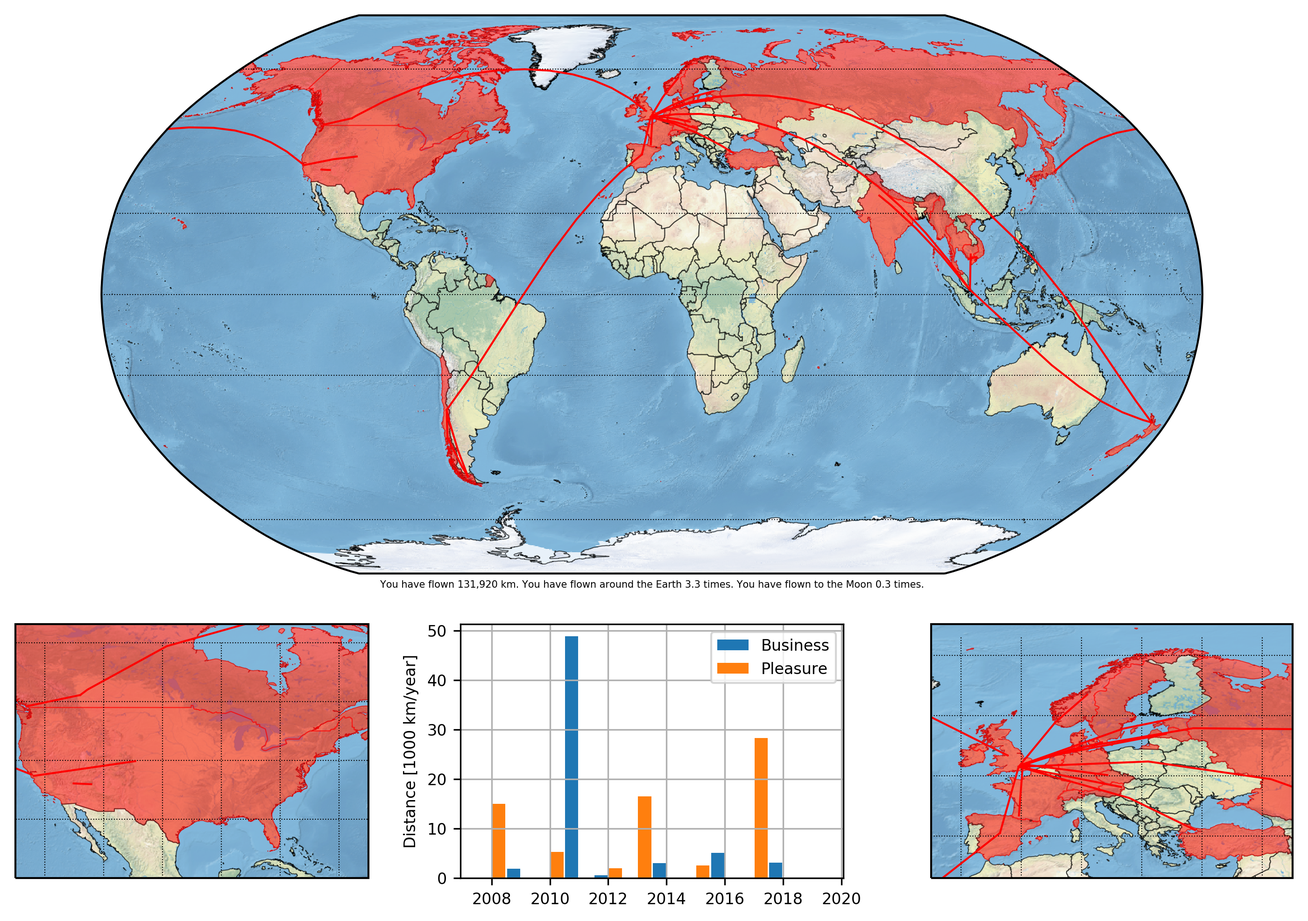
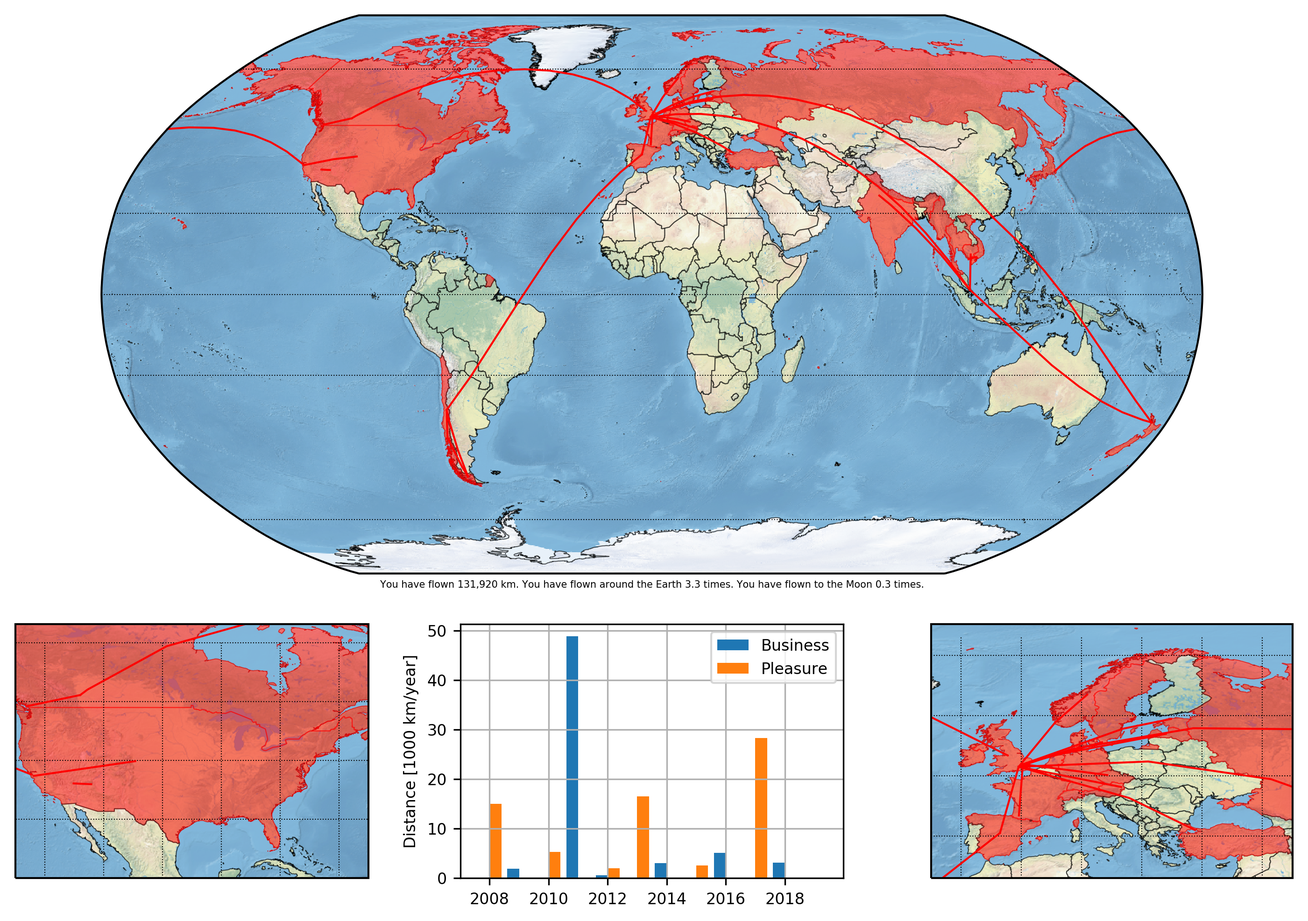
made bar half-width defined so that it can be used consistantly

diff --git a/run.py b/run.py
@@ -36,6 +36,9 @@ def run(flightLog = "/this/path/does/not/exist", extraCountries = [], renames = 
          73.0  # top
     ]
 
+    # Set the half-width of the bars on the histogram ...
+    hw = 0.2
+
     # Create plot and make it pretty ...
     fig = matplotlib.pyplot.figure(
         figsize = (12, 8),
@@ -197,9 +200,9 @@ def run(flightLog = "/this/path/does/not/exist", extraCountries = [], renames = 
                 # NOTE: This is a bit of a hack, I should really use NumPy but I
                 #       do not want to bring in another dependency that people
                 #       may not have.
-                businessX.append(year - 0.25)
+                businessX.append(year - hw)
                 businessY.append(0.0)                                           # [1000 km]
-                pleasureX.append(year + 0.25)
+                pleasureX.append(year + hw)
                 pleasureY.append(0.0)                                           # [1000 km]
 
         # Find coordinates for this flight ...
@@ -215,9 +218,9 @@ def run(flightLog = "/this/path/does/not/exist", extraCountries = [], renames = 
 
         # Add it's distance to the histogram ...
         if row[3].lower() == "business":
-            businessY[businessX.index(int(row[2][0:4]) - 0.25)] += 0.001 * dist # [1000 km]
+            businessY[businessX.index(int(row[2][0:4]) - hw)] += 0.001 * dist   # [1000 km]
         elif row[3].lower() == "pleasure":
-            pleasureY[pleasureX.index(int(row[2][0:4]) + 0.25)] += 0.001 * dist # [1000 km]
+            pleasureY[pleasureX.index(int(row[2][0:4]) + hw)] += 0.001 * dist   # [1000 km]
 
         # Create flight name and skip this flight if it has already been drawn ...
         if iata1 < iata2:
@@ -260,8 +263,8 @@ def run(flightLog = "/this/path/does/not/exist", extraCountries = [], renames = 
             extraCountries.append(country2)
 
     # Plot histograms ...
-    axm.bar(businessX, businessY, width = 0.45, label = "Business")
-    axm.bar(pleasureX, pleasureY, width = 0.45, label = "Pleasure")
+    axm.bar(businessX, businessY, width = 2.0 * hw, label = "Business")
+    axm.bar(pleasureX, pleasureY, width = 2.0 * hw, label = "Pleasure")
     axm.legend()
     axm.set_ylabel("Distance [1000 km/year]")
     axm.xaxis.grid(True)
